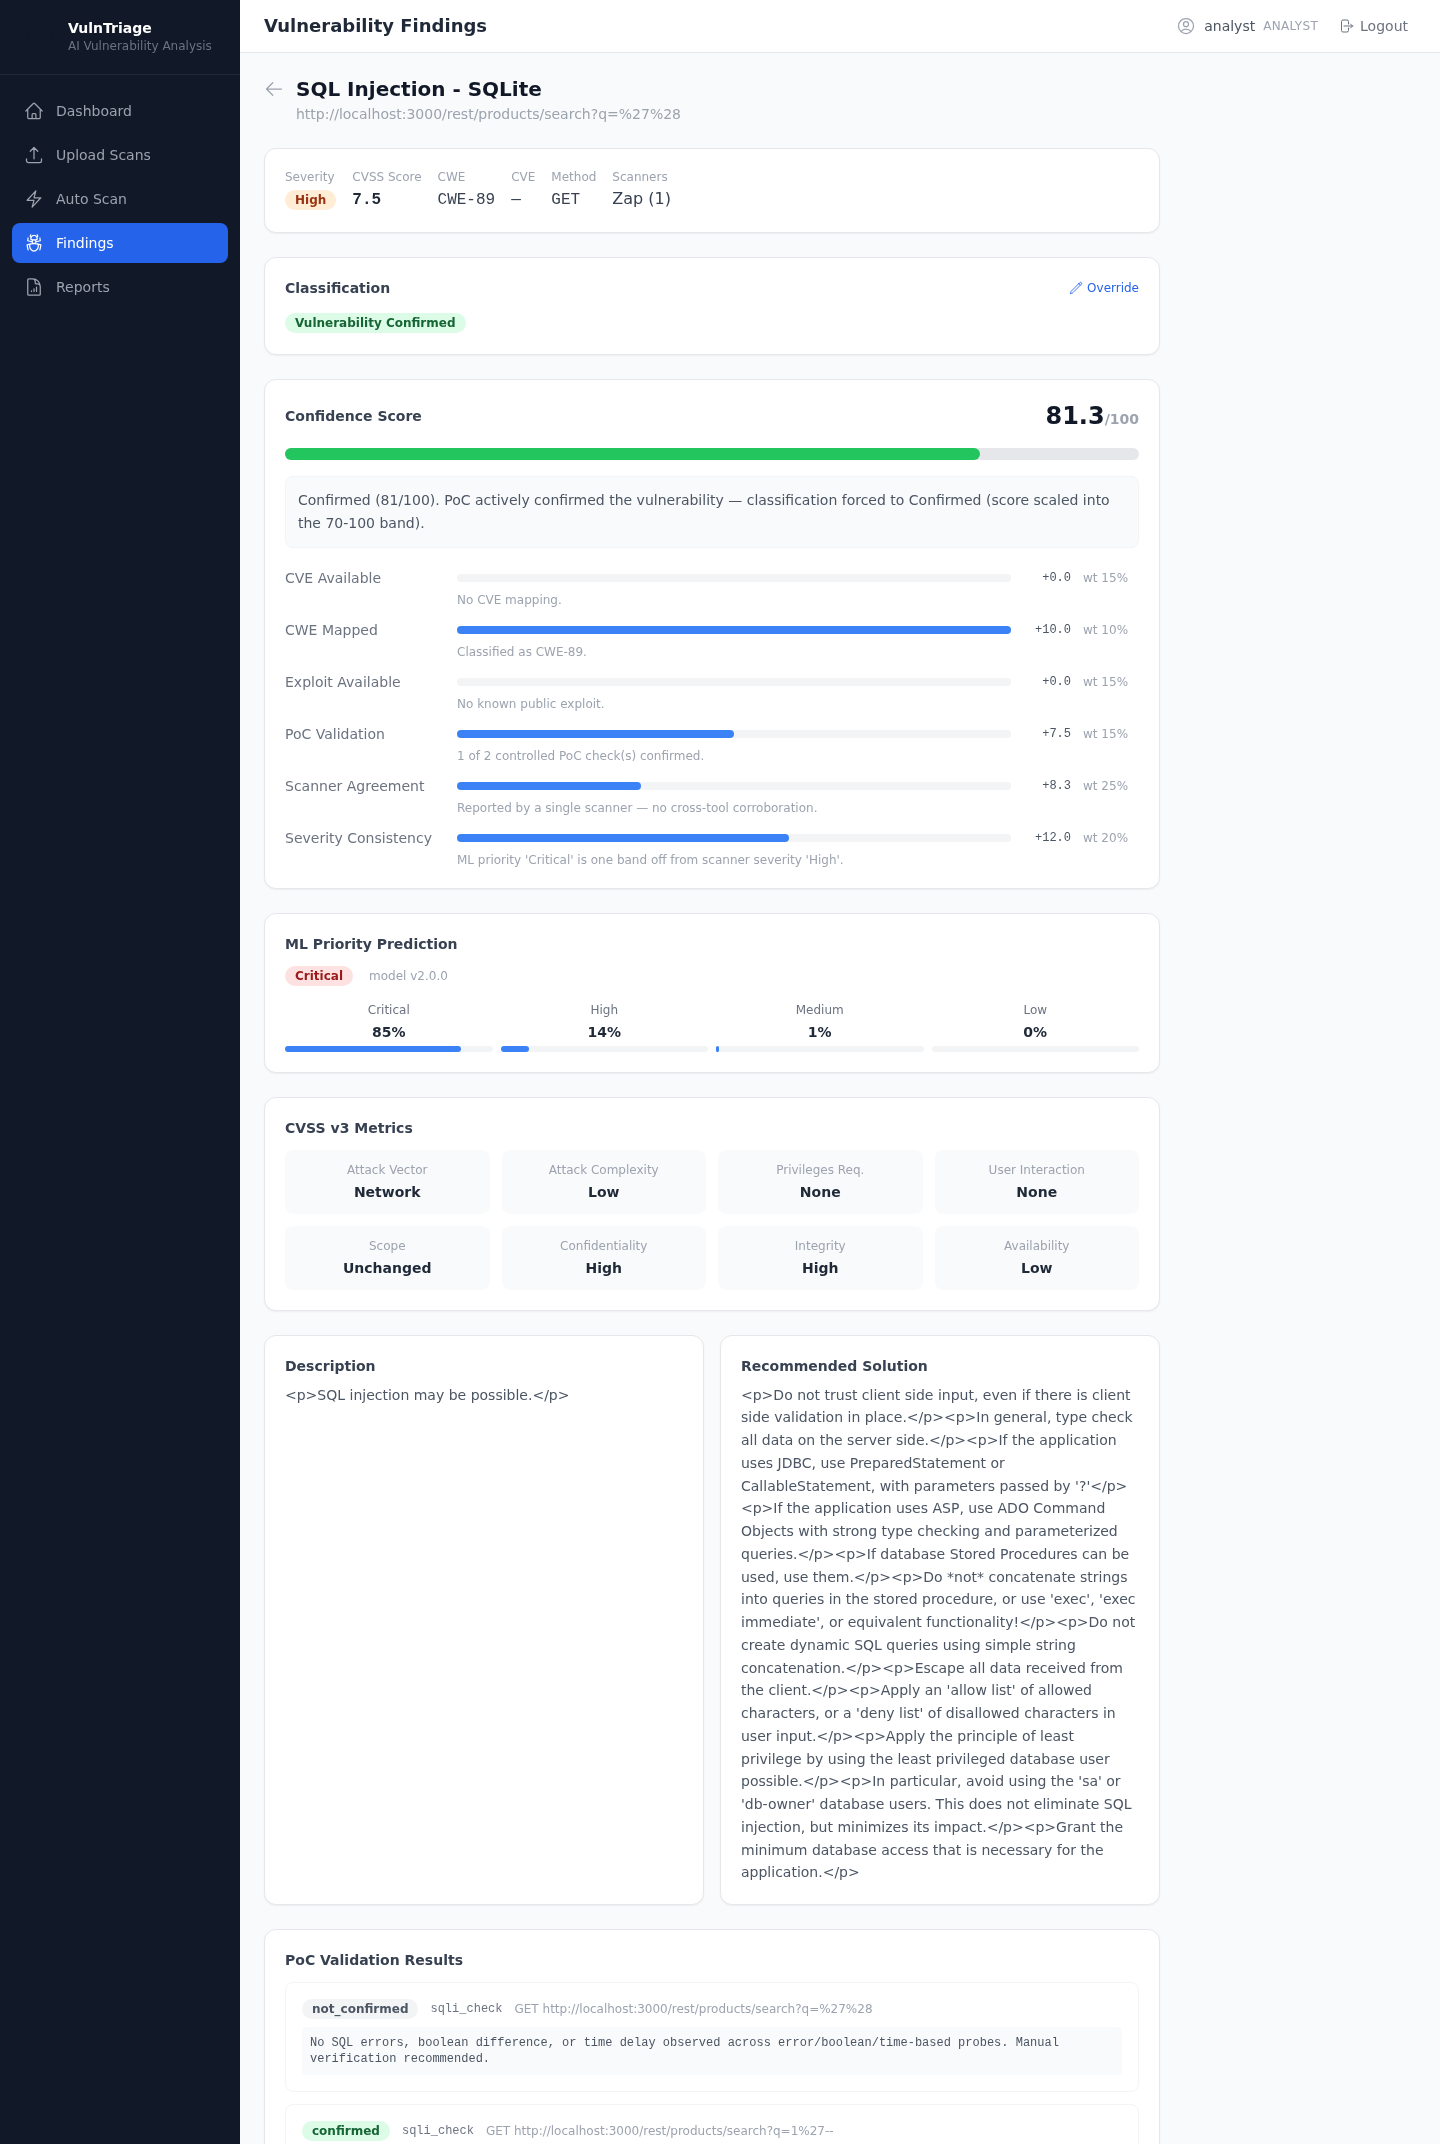
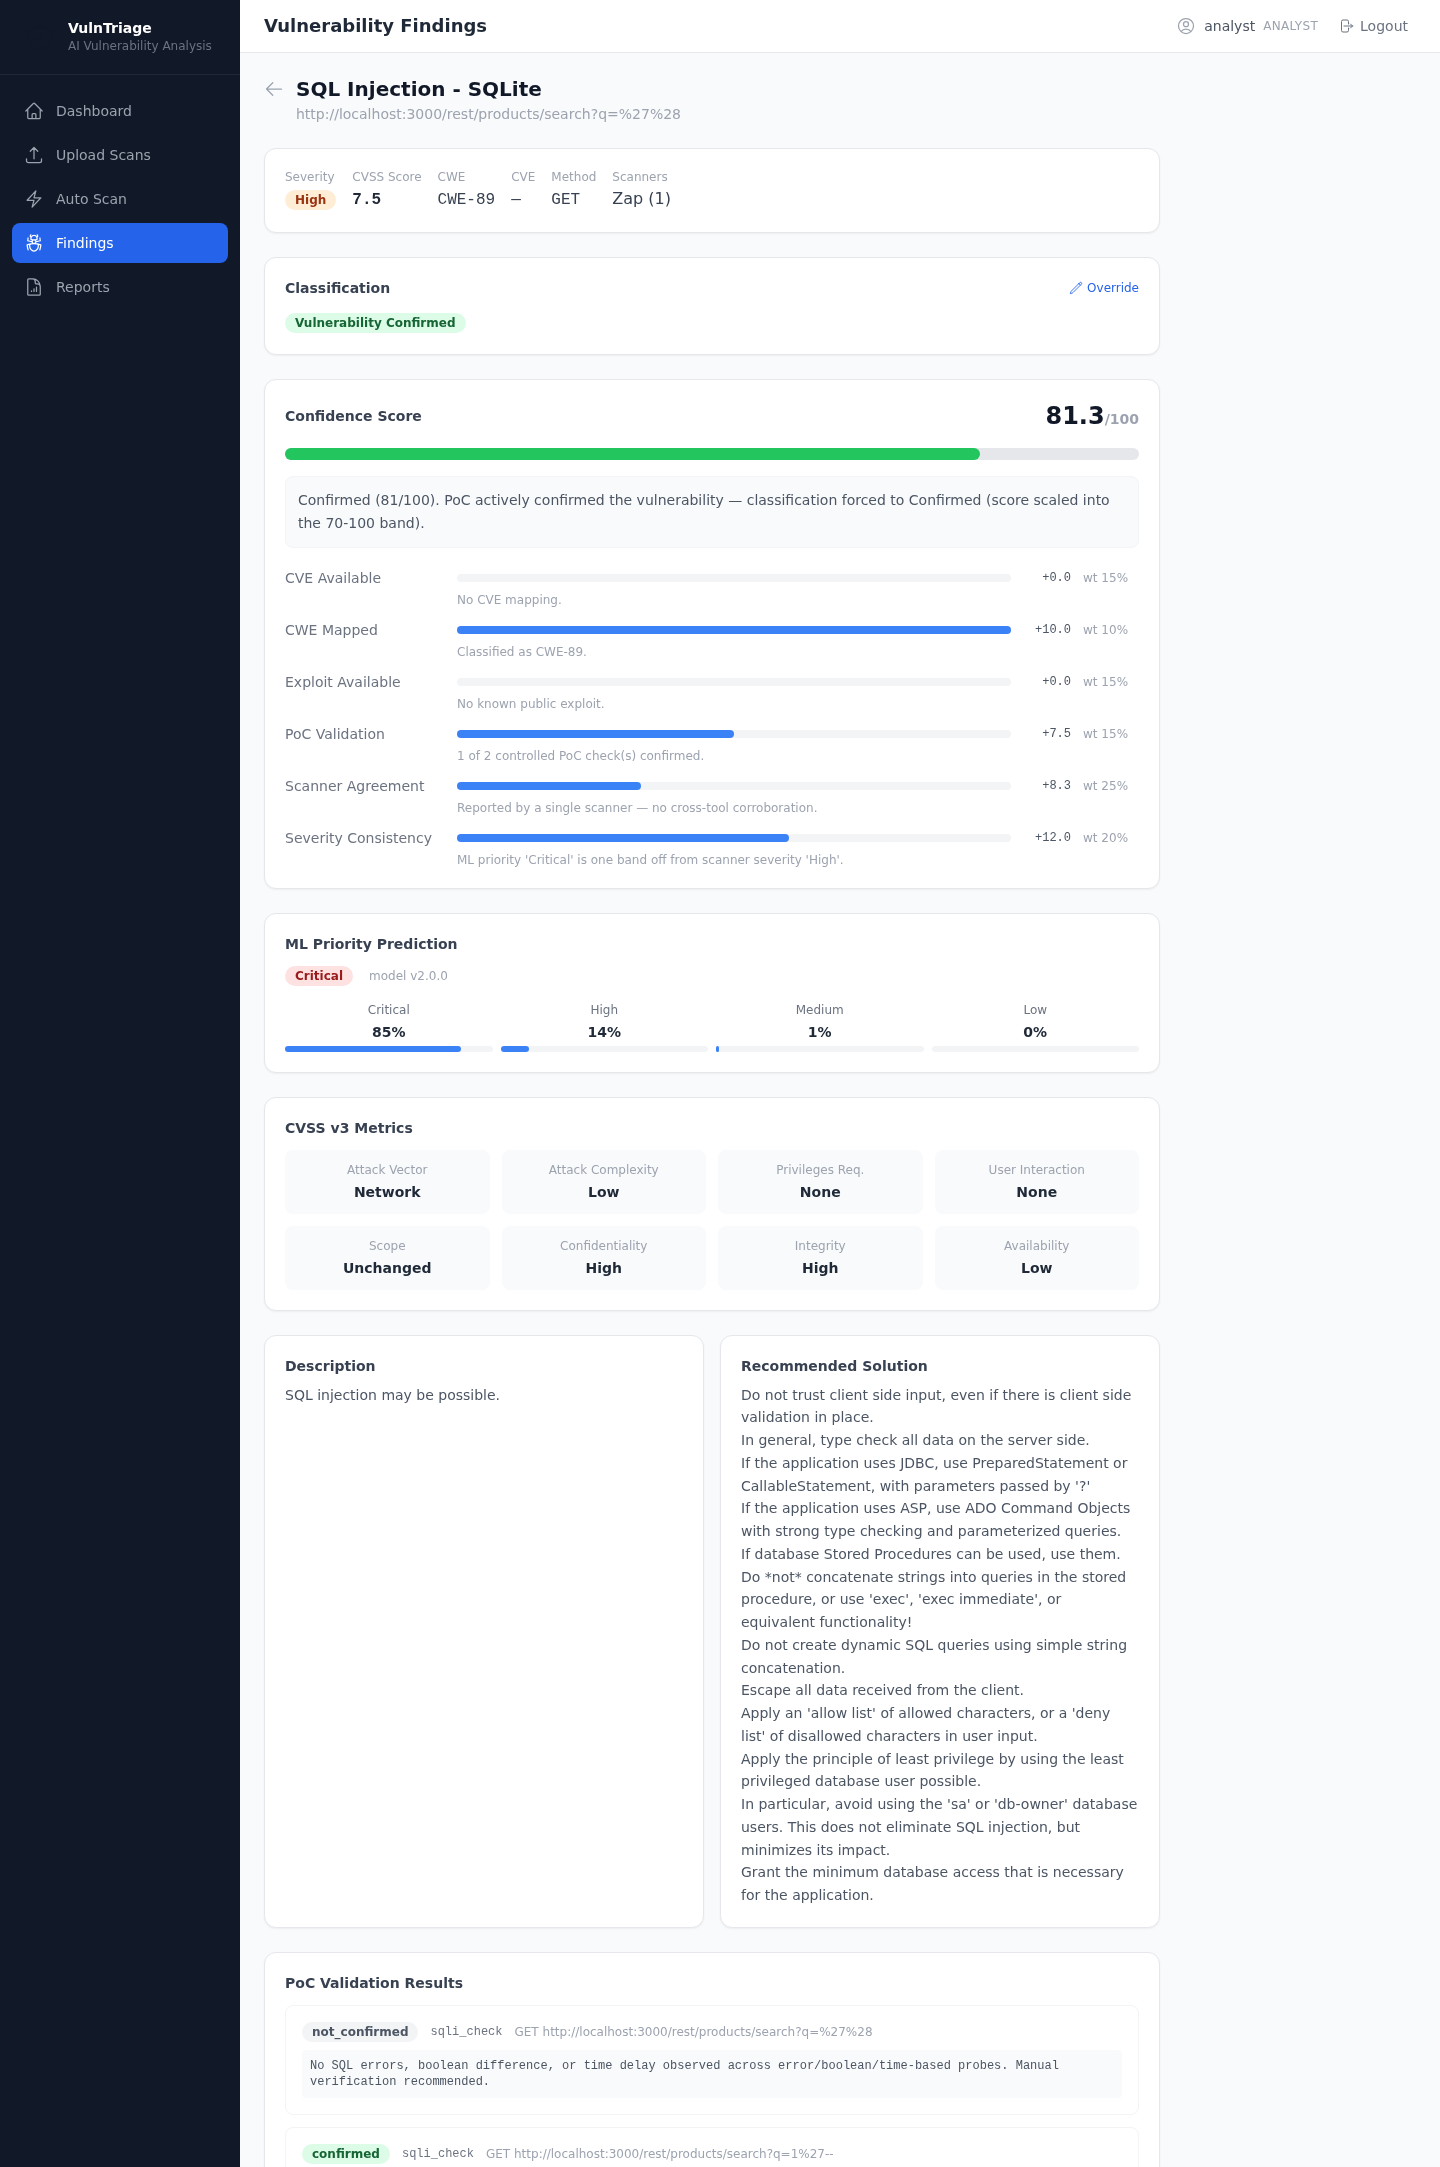
Strip HTML from scanner descriptions/solutions (fix raw <p> tags)
ZAP descriptions/solutions arrive as HTML and were stored verbatim,
so raw <p>…</p> tags showed in the finding detail UI and the PDF
report. Add html_to_text (converts block tags to newlines, strips
remaining tags, decodes entities) and apply it at the normalisation
chokepoint for description + solution, so both the UI and the report
render clean text. FindingDetail uses whitespace-pre-line so the
paragraph breaks show.

Adds tests/test_html_to_text.py. 90 tests pass. Refreshes the
finding-detail screenshot in Chapter 4 to show the fix.

diff --git a/frontend/src/pages/FindingDetail.jsx b/frontend/src/pages/FindingDetail.jsx
@@ -200,11 +200,11 @@ export default function FindingDetail() {
       <div className="grid grid-cols-1 lg:grid-cols-2 gap-4">
         <div className="card p-5">
           <h2 className="text-sm font-semibold text-gray-700 mb-2">Description</h2>
-          <p className="text-sm text-gray-600 leading-relaxed">{finding.description || 'No description available.'}</p>
+          <p className="text-sm text-gray-600 leading-relaxed whitespace-pre-line">{finding.description || 'No description available.'}</p>
         </div>
         <div className="card p-5">
           <h2 className="text-sm font-semibold text-gray-700 mb-2">Recommended Solution</h2>
-          <p className="text-sm text-gray-600 leading-relaxed">{finding.solution || 'No solution provided.'}</p>
+          <p className="text-sm text-gray-600 leading-relaxed whitespace-pre-line">{finding.solution || 'No solution provided.'}</p>
         </div>
       </div>
 

diff --git a/backend/app/utils/helpers.py b/backend/app/utils/helpers.py
@@ -1,4 +1,29 @@
+import html as _html
 import re
+
+
+_HTML_BLOCK_RE = re.compile(r"(?i)</(p|div|li|ul|ol|tr|h[1-6])\s*>|<br\s*/?>")
+_HTML_TAG_RE = re.compile(r"<[^>]+>")
+
+
+def html_to_text(value, max_len: int = 10000) -> str | None:
+    """Convert HTML markup to readable plain text.
+
+    Scanner descriptions/solutions (notably ZAP's) arrive as HTML, which would
+    otherwise show raw <p>…</p> tags in the UI and the PDF report. Block-level
+    closing tags become newlines so paragraphs/list items stay separated, all
+    remaining tags are removed, and HTML entities are decoded. Returns None for
+    empty input.
+    """
+    if not value:
+        return None
+    s = _HTML_BLOCK_RE.sub("\n", str(value))
+    s = _HTML_TAG_RE.sub("", s)
+    s = _html.unescape(s)
+    s = re.sub(r"[ \t]+", " ", s)
+    s = re.sub(r"\n[ \t]*", "\n", s)
+    s = re.sub(r"\n{3,}", "\n\n", s).strip()
+    return s[:max_len] or None
 
 
 def allowed_file(filename: str, allowed_extensions: set) -> bool:

diff --git a/backend/tests/test_html_to_text.py b/backend/tests/test_html_to_text.py
@@ -1,0 +1,30 @@
+"""html_to_text: scanner descriptions/solutions (e.g. ZAP's) arrive as HTML and
+must not surface raw <p> tags in the UI or the PDF report."""
+
+import pytest
+
+from app.utils.helpers import html_to_text
+
+
+def test_strips_single_paragraph():
+    assert html_to_text("<p>SQL injection may be possible.</p>") == \
+        "SQL injection may be possible."
+
+
+def test_separates_paragraphs_with_newline():
+    out = html_to_text("<p>One.</p><p>Two.</p>")
+    assert out == "One.\nTwo."
+
+
+def test_decodes_entities_without_reintroducing_tags():
+    # Entities decode to literal text (safe: rendered as text / XML-escaped later).
+    assert html_to_text("<p>Encode &lt;b&gt; &amp; escape.</p>") == "Encode <b> & escape."
+
+
+def test_plain_text_unchanged():
+    assert html_to_text("Plain text, no markup") == "Plain text, no markup"
+
+
+@pytest.mark.parametrize("empty", ["", None, "<p></p>"])
+def test_empty_returns_none(empty):
+    assert html_to_text(empty) is None

diff --git a/backend/app/engines/normalisation.py b/backend/app/engines/normalisation.py
@@ -19,6 +19,7 @@ from app.utils.helpers import (
     extract_cwe_id,
     extract_cve_id,
     sanitize_text,
+    html_to_text,
 )
 
 
@@ -71,7 +72,7 @@ class NormalisationEngine:
             scanner_count=1,
             scanner_sources=[vuln.scanner_type],
             title=sanitize_text(vuln.name, 500),
-            description=sanitize_text(vuln.description),
+            description=html_to_text(vuln.description),
             url=sanitize_text(vuln.url),
             parameter=sanitize_text(vuln.parameter, 255),
             method=vuln.method,
@@ -80,6 +81,6 @@ class NormalisationEngine:
             cwe_id=cwe_id,
             cvss_score=vuln.cvss_score,
             cvss_vector=vuln.cvss_vector,
-            solution=sanitize_text(vuln.solution),
+            solution=html_to_text(vuln.solution),
             reference=sanitize_text(vuln.reference),
         )
